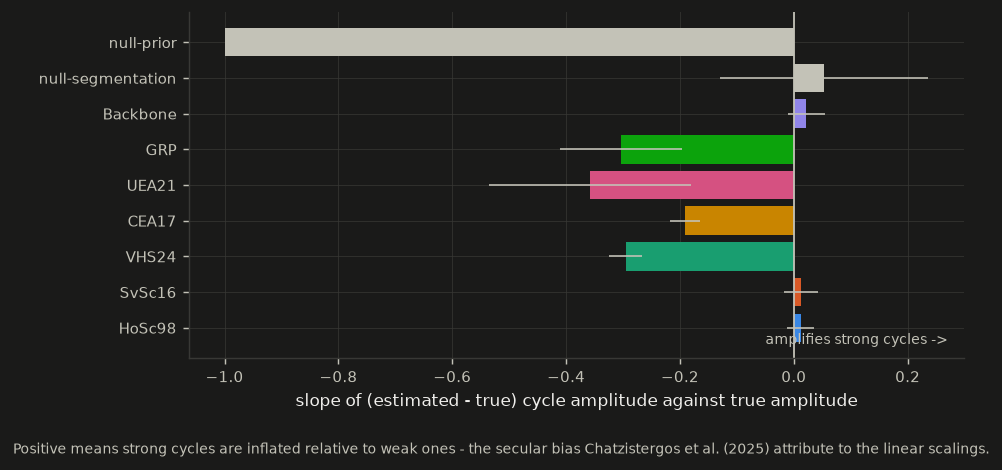
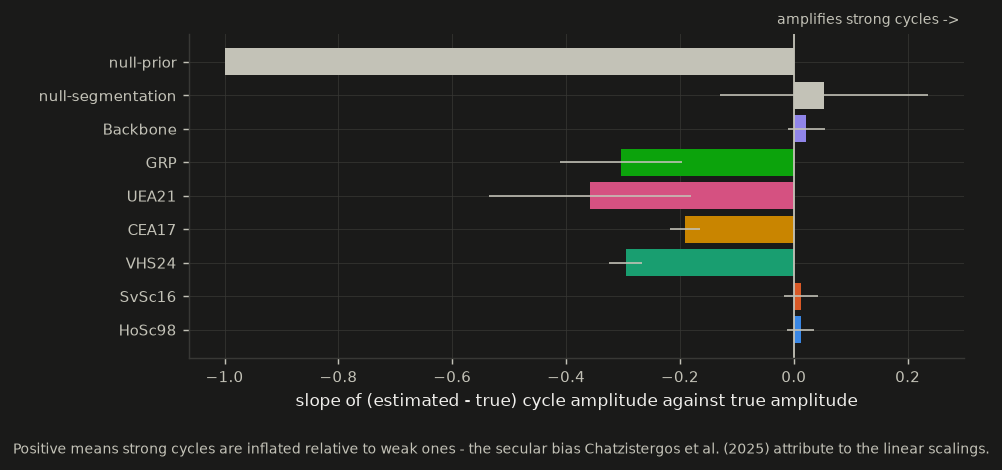
Make the score figures readable
Two rendering faults. With sharey, blanking the y labels on one axis blanks
them on every axis, so f18 shipped with nine unlabelled bars; hiding the ticks
per axis instead keeps the method names. And f19's annotation sat on top of the
HoSc98 bar.

diff --git a/src/gn_next_gen/viz/benchmark.py b/src/gn_next_gen/viz/benchmark.py
@@ -103,7 +103,10 @@ def scores_figure(scores: pd.DataFrame, mode: str = "light") -> plt.Figure:
             )
             ax.axvline(0.0, color=theme["grid"], linewidth=1.0, zorder=1)
             ax.set_yticks(positions)
-            ax.set_yticklabels(methods if ax is axes[0] else [])
+            # With sharey, blanking the labels on one axis blanks them on all of
+            # them, so hide the ticks per axis instead of emptying the list.
+            ax.set_yticklabels(methods)
+            ax.tick_params(labelleft=(ax is axes[0]))
             ax.set_xlabel(f"groups, {label}")
             ax.set_title(label, fontsize=9, color=theme["text_secondary"])
         axes[0].legend(loc="lower right", fontsize=7.5, frameon=False)
@@ -144,9 +147,10 @@ def amplitude_slope_figure(scores: pd.DataFrame, mode: str = "light") -> plt.Fig
         ax.set_xlabel("slope of (estimated - true) cycle amplitude against true amplitude")
         ax.annotate(
             "amplifies strong cycles ->",
-            xy=(0.98, 0.04),
+            xy=(0.995, 1.02),
             xycoords="axes fraction",
             ha="right",
+            va="bottom",
             fontsize=7.5,
             color=theme["text_secondary"],
         )
